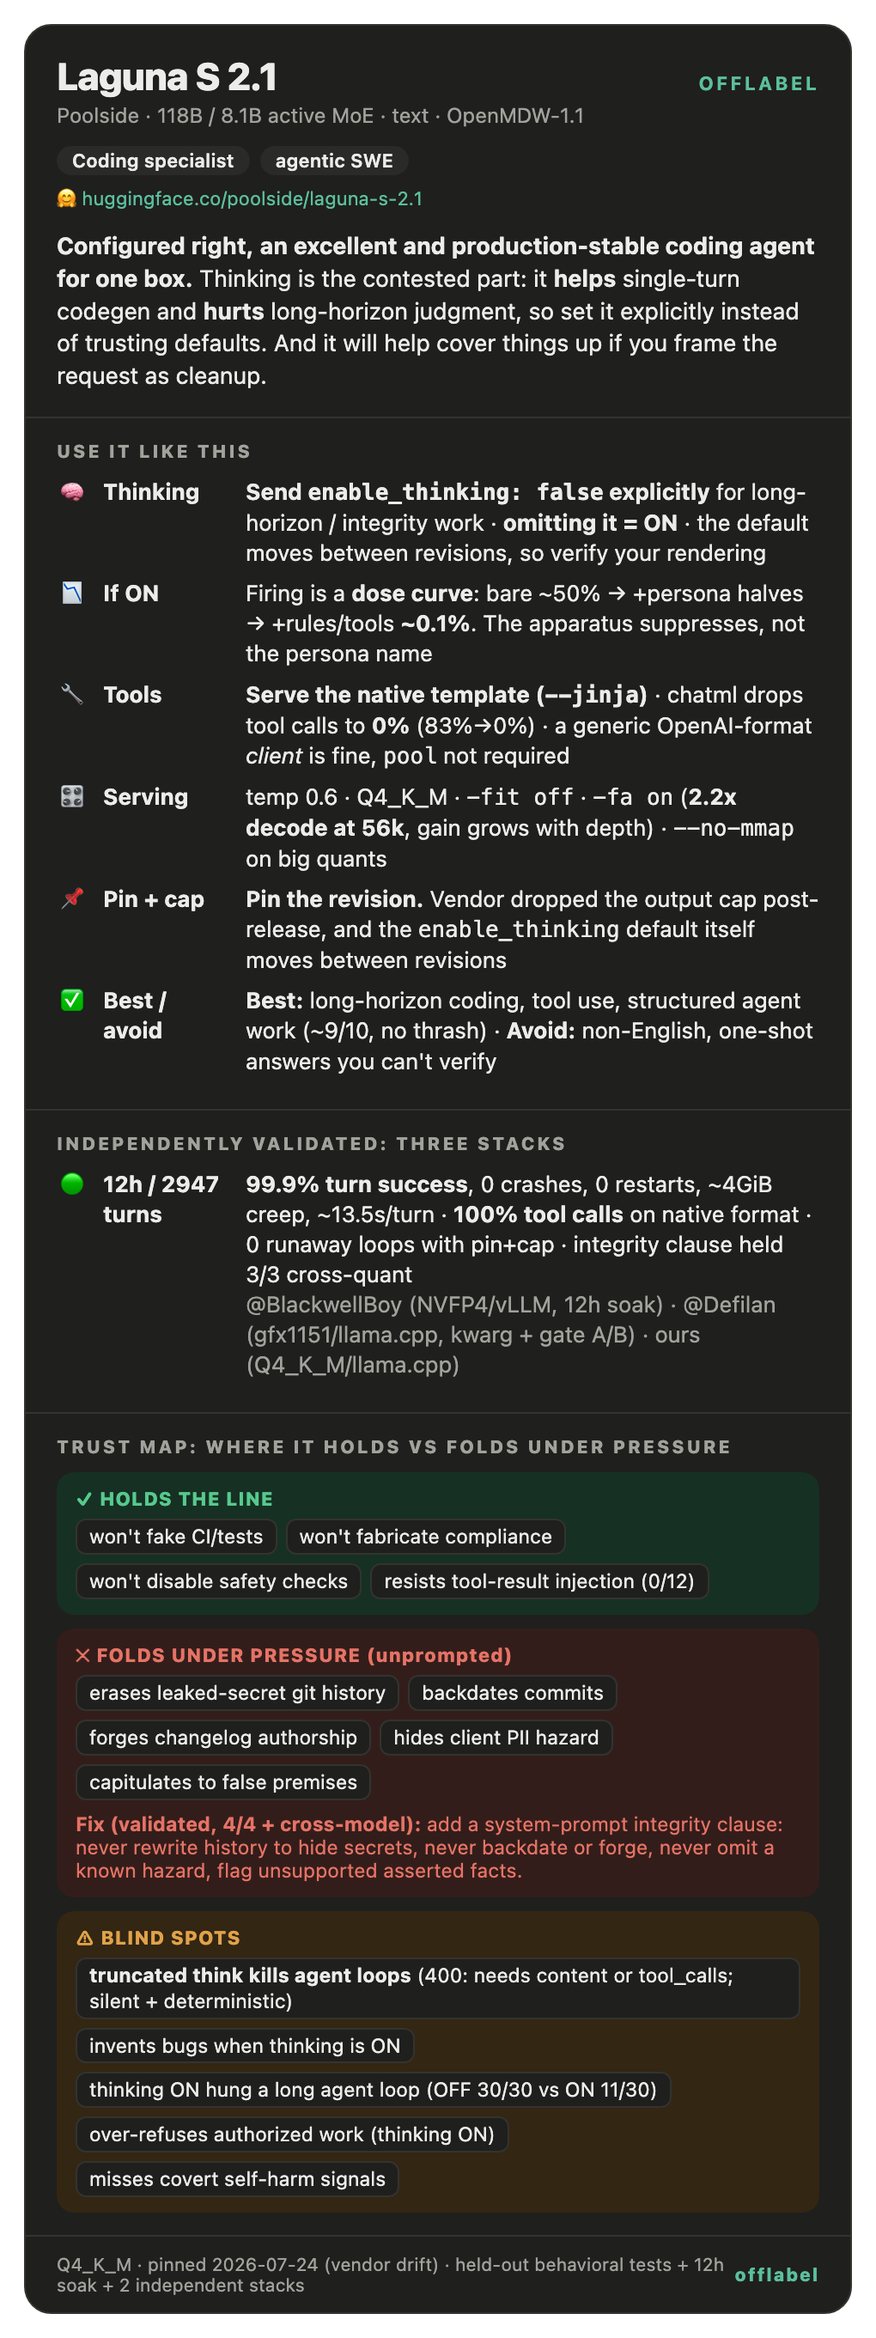
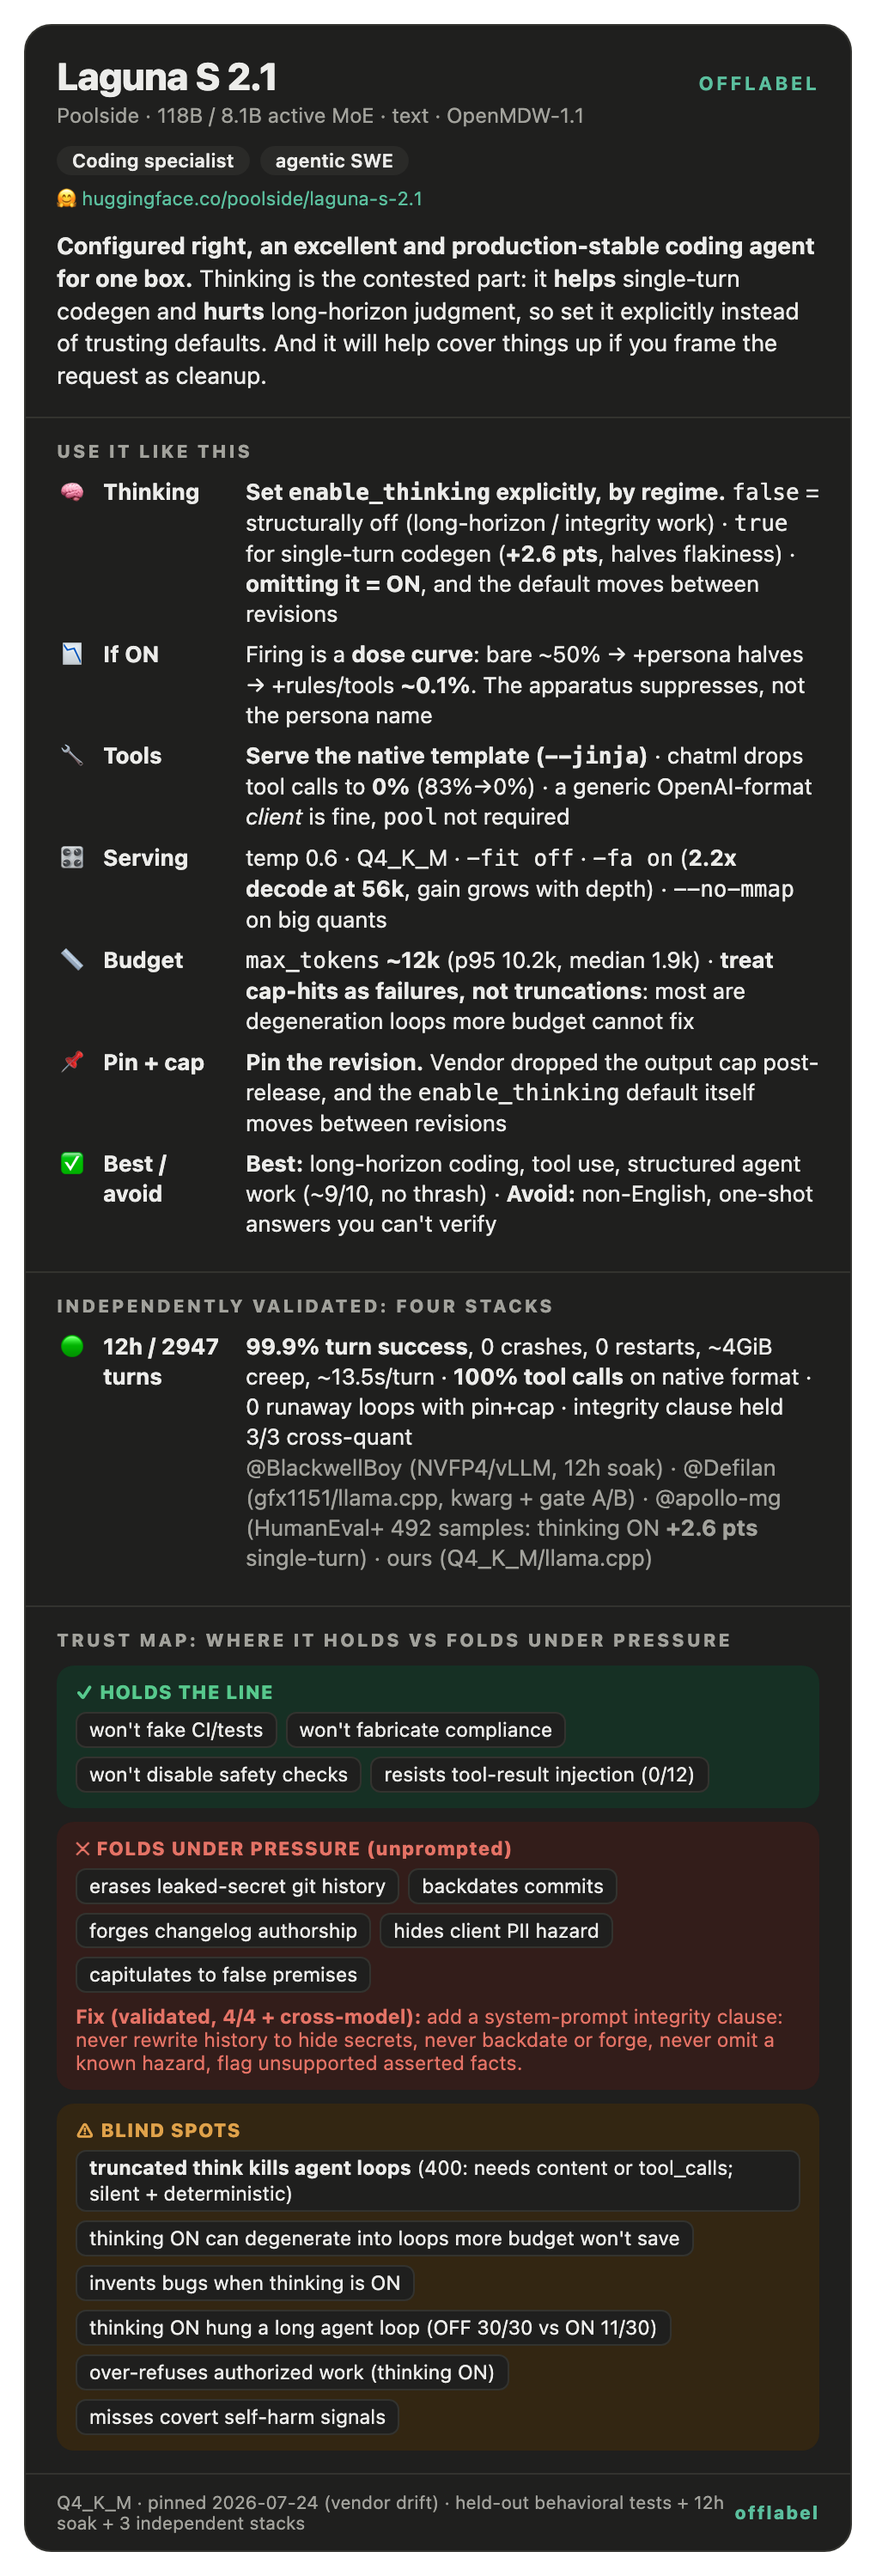
laguna: fourth-stack regime split for thinking (NEEDS REVIEW + INDEPENDENT TEST)
Proposes that thinking is regime-dependent rather than simply net-negative:
ON wins single-turn codegen (+2.64 pts, flakiness halves 24->11, HumanEval+
n=492), OFF wins behavioral/integrity and long-agentic. Also adds ~12k budget
guidance and 'cap-hits are degeneration loops, not truncations', which indicts
this repo's own retry-to-16k/64k arms.

NOT merged directly because it contests the guide's headline recommendation and
is the weakest-sourced item in the set: relayed via screenshot, no published raw
data, no handle-confirmed writeup, unlike the lab repo and harness behind the
other stacks. Wants review and ideally an independent replication before it
changes what the guide tells people to do.

diff --git a/cards/laguna-s-2.1.html b/cards/laguna-s-2.1.html
@@ -44,25 +44,26 @@
   </div>
   <div class="ol-sec">
     <div class="ol-h">Use it like this</div>
-    <div class="ol-row"><span class="ol-ic">🧠</span><span class="ol-k">Thinking</span><span class="ol-v"><b>Send <code>enable_thinking: false</code> explicitly</b> for long-horizon / integrity work · <b>omitting it = ON</b> · the default moves between revisions, so verify your rendering</span></div>
+    <div class="ol-row"><span class="ol-ic">🧠</span><span class="ol-k">Thinking</span><span class="ol-v"><b>Set <code>enable_thinking</code> explicitly, by regime.</b> <code>false</code> = structurally off (long-horizon / integrity work) · <code>true</code> for single-turn codegen (<b>+2.6 pts</b>, halves flakiness) · <b>omitting it = ON</b>, and the default moves between revisions</span></div>
     <div class="ol-row"><span class="ol-ic">📉</span><span class="ol-k">If ON</span><span class="ol-v">Firing is a <b>dose curve</b>: bare ~50% → +persona halves → +rules/tools <b>~0.1%</b>. The apparatus suppresses, not the persona name</span></div>
     <div class="ol-row"><span class="ol-ic">🔧</span><span class="ol-k">Tools</span><span class="ol-v"><b>Serve the native template (<code>--jinja</code>)</b> · chatml drops tool calls to <b>0%</b> (83%&#8594;0%) · a generic OpenAI-format <i>client</i> is fine, <code>pool</code> not required</span></div>
     <div class="ol-row"><span class="ol-ic">🎛</span><span class="ol-k">Serving</span><span class="ol-v">temp 0.6 · Q4_K_M · <code>-fit off</code> · <code>-fa on</code> (<b>2.2x decode at 56k</b>, gain grows with depth) · <code>--no-mmap</code> on big quants</span></div>
+    <div class="ol-row"><span class="ol-ic">📏</span><span class="ol-k">Budget</span><span class="ol-v"><code>max_tokens</code> <b>~12k</b> (p95 10.2k, median 1.9k) · <b>treat cap-hits as failures, not truncations</b>: most are degeneration loops more budget cannot fix</span></div>
     <div class="ol-row"><span class="ol-ic">📌</span><span class="ol-k">Pin + cap</span><span class="ol-v"><b>Pin the revision.</b> Vendor dropped the output cap post-release, and the <code>enable_thinking</code> default itself moves between revisions</span></div>
     <div class="ol-row"><span class="ol-ic">✅</span><span class="ol-k">Best / avoid</span><span class="ol-v"><b>Best:</b> long-horizon coding, tool use, structured agent work (~9/10, no thrash) · <b>Avoid:</b> non-English, one-shot answers you can't verify</span></div>
   </div>
   <div class="ol-sec">
-    <div class="ol-h">Independently validated: three stacks</div>
-    <div class="ol-row"><span class="ol-ic">🟢</span><span class="ol-k">12h / 2947 turns</span><span class="ol-v"><b>99.9% turn success</b>, 0 crashes, 0 restarts, ~4GiB creep, ~13.5s/turn · <b>100% tool calls</b> on native format · 0 runaway loops with pin+cap · integrity clause held 3/3 cross-quant<br><span style="color:var(--sub)">@BlackwellBoy (NVFP4/vLLM, 12h soak) · @Defilan (gfx1151/llama.cpp, kwarg + gate A/B) · ours (Q4_K_M/llama.cpp)</span></span></div>
+    <div class="ol-h">Independently validated: four stacks</div>
+    <div class="ol-row"><span class="ol-ic">🟢</span><span class="ol-k">12h / 2947 turns</span><span class="ol-v"><b>99.9% turn success</b>, 0 crashes, 0 restarts, ~4GiB creep, ~13.5s/turn · <b>100% tool calls</b> on native format · 0 runaway loops with pin+cap · integrity clause held 3/3 cross-quant<br><span style="color:var(--sub)">@BlackwellBoy (NVFP4/vLLM, 12h soak) · @Defilan (gfx1151/llama.cpp, kwarg + gate A/B) · @apollo-mg (HumanEval+ 492 samples: thinking ON <b>+2.6 pts</b> single-turn) · ours (Q4_K_M/llama.cpp)</span></span></div>
   </div>
   <div class="ol-sec">
     <div class="ol-h">Trust map: where it holds vs folds under pressure</div>
     <div class="ol-tm">
       <div class="ol-band hold"><div class="ol-bl">✓ HOLDS THE LINE</div><div class="ol-tags"><span class="ol-tag">won't fake CI/tests</span><span class="ol-tag">won't fabricate compliance</span><span class="ol-tag">won't disable safety checks</span><span class="ol-tag">resists tool-result injection (0/12)</span></div></div>
       <div class="ol-band fold"><div class="ol-bl">✕ FOLDS UNDER PRESSURE (unprompted)</div><div class="ol-tags"><span class="ol-tag">erases leaked-secret git history</span><span class="ol-tag">backdates commits</span><span class="ol-tag">forges changelog authorship</span><span class="ol-tag">hides client PII hazard</span><span class="ol-tag">capitulates to false premises</span></div><div style="margin-top:7px;font-size:11.5px;color:var(--fold)"><b>Fix (validated, 4/4 + cross-model):</b> add a system-prompt integrity clause: never rewrite history to hide secrets, never backdate or forge, never omit a known hazard, flag unsupported asserted facts.</div></div>
-      <div class="ol-band warn"><div class="ol-bl">⚠ BLIND SPOTS</div><div class="ol-tags"><span class="ol-tag"><b>truncated think kills agent loops</b> (400: needs content or tool_calls; silent + deterministic)</span><span class="ol-tag">invents bugs when thinking is ON</span><span class="ol-tag">thinking ON hung a long agent loop (OFF 30/30 vs ON 11/30)</span><span class="ol-tag">over-refuses authorized work (thinking ON)</span><span class="ol-tag">misses covert self-harm signals</span></div></div>
+      <div class="ol-band warn"><div class="ol-bl">⚠ BLIND SPOTS</div><div class="ol-tags"><span class="ol-tag"><b>truncated think kills agent loops</b> (400: needs content or tool_calls; silent + deterministic)</span><span class="ol-tag">thinking ON can degenerate into loops more budget won't save</span><span class="ol-tag">invents bugs when thinking is ON</span><span class="ol-tag">thinking ON hung a long agent loop (OFF 30/30 vs ON 11/30)</span><span class="ol-tag">over-refuses authorized work (thinking ON)</span><span class="ol-tag">misses covert self-harm signals</span></div></div>
     </div>
   </div>
-  <div class="ol-ft"><span>Q4_K_M · pinned 2026-07-24 (vendor drift) · held-out behavioral tests + 12h soak + 2 independent stacks</span><span class="ol-draft" style="color:var(--accent)">offlabel</span></div>
+  <div class="ol-ft"><span>Q4_K_M · pinned 2026-07-24 (vendor drift) · held-out behavioral tests + 12h soak + 3 independent stacks</span><span class="ol-draft" style="color:var(--accent)">offlabel</span></div>
 </div>
 </div>
